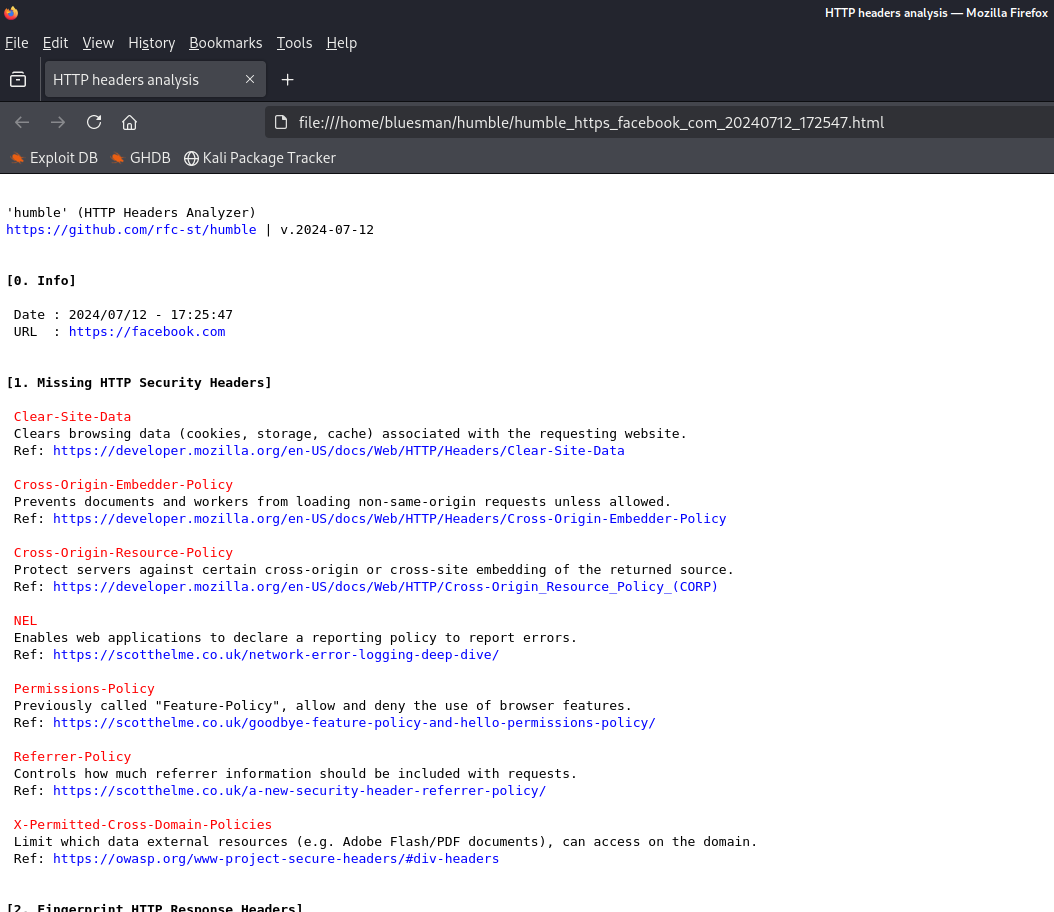
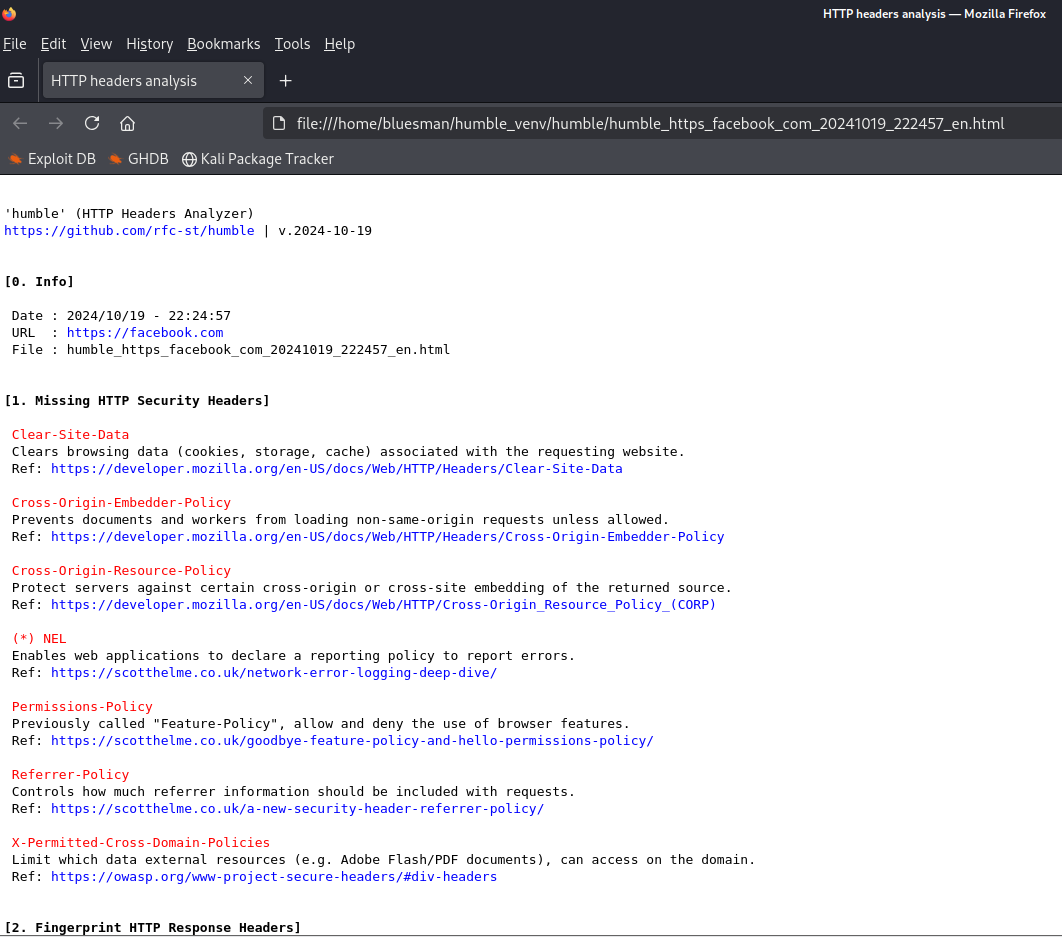
Minor: Optimized the code for exporting to HTML

diff --git a/samples/humble_https_facebook_com_20241019_222457_en.html b/samples/humble_https_facebook_com_20241019_222457_en.html
@@ -1,15 +1,16 @@
 <!DOCTYPE HTML><html lang="en"><head><meta http-equiv="Content-Type" content="text/html; charset=utf-8"><meta name="description" content="HTTP headers analysis of
  https://facebook.com"><meta name="keywords" content="HTTP Headers, Analyzer, Analysis, Cybersecurity, Security-scanner, Security-Tools, Header-Parser
-"><meta name="author" content="https://github.com/rfc-st/humble | v.2024-07-12"><meta name="generator" content="https://github.com/rfc-st/humble | v.2024-07-12"><title>HTTP headers analysis
+"><meta name="author" content="https://github.com/rfc-st/humble | v.2024-10-19"><meta name="generator" content="https://github.com/rfc-st/humble | v.2024-10-19"><title>HTTP headers analysis
 </title><style>pre {overflow-x: auto; white-space: pre-wrap;white-space: -moz-pre-wrap; white-space: -pre-wrap;white-space: -o-pre-wrap; word-wrap: break-word; font-size: 13px;} a {color: blue; text-decoration: none;} .ok {color: green;} .header {color: #660033;} .ko {color: red;}</style></head><body><pre>
 
 'humble' (HTTP Headers Analyzer)
-<a href="https://github.com/rfc-st/humble">https://github.com/rfc-st/humble</a> | v.2024-07-12
+<a href="https://github.com/rfc-st/humble">https://github.com/rfc-st/humble</a> | v.2024-10-19
 
 
 <strong>[0. Info]</strong><br>
- Date : 2024/07/12 - 17:25:47
- URL  : <a href="https://facebook.com">https://facebook.com</a><br>
+ Date : 2024/10/19 - 22:24:57
+ URL  : <a href="https://facebook.com">https://facebook.com</a><br> File : humble_https_facebook_com_20241019_222457_en.html
+
 
 <strong>[1. Missing HTTP Security Headers]</strong><br>
 <span class="ko"> Clear-Site-Data
@@ -21,7 +22,7 @@
 <span class="ko"> Cross-Origin-Resource-Policy
 </span> Protect servers against certain cross-origin or cross-site embedding of the returned source.
  Ref: <a href="https://developer.mozilla.org/en-US/docs/Web/HTTP/Cross-Origin_Resource_Policy_(CORP)">https://developer.mozilla.org/en-US/docs/Web/HTTP/Cross-Origin_Resource_Policy_(CORP)</a><br>
-<span class="ko"> NEL
+<span class="ko"> (*) NEL
 </span> Enables web applications to declare a reporting policy to report errors.
  Ref: <a href="https://scotthelme.co.uk/network-error-logging-deep-dive/">https://scotthelme.co.uk/network-error-logging-deep-dive/</a><br>
 <span class="ko"> Permissions-Policy
@@ -38,30 +39,33 @@
  These headers can leak information about software, versions, hostnames or IP addresses:
 
 <span class="ko"> X-FB-Debug</span> [facebook.com Platform]
[2 lines of base64/hex data omitted]
 
 
 <strong>[3. Deprecated HTTP Response Headers/Protocols and Insecure Values]</strong><br>
  The following headers/protocols are deprecated or their values may be considered unsafe:
 
 <span class="ko"> Content-Security-Policy (Deprecated Directives)
-</span> Avoid using deprecated directives: 'block-all-mixed-content', 'report-uri'
+</span> Avoid using deprecated directives: 'report-uri', 'block-all-mixed-content'
  Ref: <a href="https://developer.mozilla.org/en-US/docs/Web/HTTP/Headers/Content-Security-Policy">https://developer.mozilla.org/en-US/docs/Web/HTTP/Headers/Content-Security-Policy</a><br>
 <span class="ko"> Content-Security-Policy (Insecure Schemes)
 </span> Do not allow insecure, unencrypted schemes: 'http:'
  Ref: <a href="https://www.cloudflare.com/learning/ssl/why-is-http-not-secure/">https://www.cloudflare.com/learning/ssl/why-is-http-not-secure/</a><br> Ref: <a href="https://http.dev/wss">https://http.dev/wss</a><br>
 <span class="ko"> Content-Security-Policy (Too Permissive Sources)
-</span> Limit these permissive origins: 'data:', 'blob:'
+</span> Limit these permissive origins: 'blob:', 'data:'
  Ref: <a href="https://content-security-policy.com/">https://content-security-policy.com/</a><br>
 <span class="ko"> Content-Security-Policy (Unsafe Values)
 </span> 'unsafe-inline' and 'unsafe-eval' negate most of the security benefits provided by this header.
  Ref: <a href="https://csper.io/blog/no-more-unsafe-inline">https://csper.io/blog/no-more-unsafe-inline</a><br> Ref: <a href="https://developer.mozilla.org/en-US/docs/Web/JavaScript/Reference/Global_Objects/eval">https://developer.mozilla.org/en-US/docs/Web/JavaScript/Reference/Global_Objects/eval</a><br>
-<span class="ko"> Origin-Agent-Cluster (No Valid Directives)
+<span class="ko"> (*) Origin-Agent-Cluster (No Valid Directives)
 </span> The only valid value is '?1'.
  Ref: <a href="https://developer.mozilla.org/en-US/docs/Web/HTTP/Headers/Origin-Agent-Cluster">https://developer.mozilla.org/en-US/docs/Web/HTTP/Headers/Origin-Agent-Cluster</a><br>
 <span class="ko"> Pragma (Deprecated Header)
 </span> This header is deprecated.
  Ref: <a href="https://developer.mozilla.org/en-US/docs/Web/HTTP/Headers/Pragma">https://developer.mozilla.org/en-US/docs/Web/HTTP/Headers/Pragma</a><br>
+<span class="ko"> Report-To (Deprecated Header)
+</span> This header is deprecated. Use instead "Reporting-Endpoints".
+ Ref: <a href="https://developer.mozilla.org/en-US/docs/Web/HTTP/Headers/Report-To">https://developer.mozilla.org/en-US/docs/Web/HTTP/Headers/Report-To</a><br>
 <span class="ko"> Strict-Transport-Security (Recommended Values)
 </span> Add 'includeSubDomains' and 'max-age' (with 31536000 -one year- as minimum).
  Ref: <a href="https://developer.mozilla.org/en-US/docs/Web/HTTP/Headers/Strict-Transport-Security">https://developer.mozilla.org/en-US/docs/Web/HTTP/Headers/Strict-Transport-Security</a><br> Ref: <a href="https://https.cio.gov/hsts/">https://https.cio.gov/hsts/</a><br>
@@ -82,17 +86,19 @@
 <span class="ok"> Nothing to report, all seems OK!</span><br>
 
 <strong>[5. Browser Compatibility for Enabled HTTP Security Headers]</strong><br>
-<span class="header"> Cache-Control: </span><a href="https://caniuse.com/?search=Cache-Control">https://caniuse.com/?search=Cache-Control</a><br><span class="header"> Content-Security-Policy: </span><a href="https://caniuse.com/?search=contentsecuritypolicy2">https://caniuse.com/?search=contentsecuritypolicy2</a><br><span class="header"> Content-Type: </span><a href="https://caniuse.com/?search=Content-Type">https://caniuse.com/?search=Content-Type</a><br><span class="header"> Cross-Origin-Opener-Policy: </span><a href="https://caniuse.com/?search=Cross-Origin-Opener-Policy">https://caniuse.com/?search=Cross-Origin-Opener-Policy</a><br><span class="header"> Origin-Agent-Cluster: </span><a href="https://caniuse.com/?search=Origin-Agent-Cluster">https://caniuse.com/?search=Origin-Agent-Cluster</a><br><span class="header"> Strict-Transport-Security: </span><a href="https://caniuse.com/?search=Strict-Transport-Security">https://caniuse.com/?search=Strict-Transport-Security</a><br><span class="header"> Vary: </span><a href="https://caniuse.com/?search=Vary">https://caniuse.com/?search=Vary</a><br><span class="header"> X-Content-Type-Options: </span><a href="https://caniuse.com/?search=X-Content-Type-Options">https://caniuse.com/?search=X-Content-Type-Options</a><br><span class="header"> X-Frame-Options: </span><a href="https://caniuse.com/?search=X-Frame-Options">https://caniuse.com/?search=X-Frame-Options</a><br><span class="header"> X-XSS-Protection: </span><a href="https://caniuse.com/?search=X-XSS-Protection">https://caniuse.com/?search=X-XSS-Protection</a><br>
+<span class="header"> Cache-Control: </span><a href="https://caniuse.com/?search=Cache-Control">https://caniuse.com/?search=Cache-Control</a><br><span class="header"> Content-Security-Policy: </span><a href="https://caniuse.com/?search=contentsecuritypolicy2">https://caniuse.com/?search=contentsecuritypolicy2</a><br><span class="header"> Content-Type: </span><a href="https://caniuse.com/?search=Content-Type">https://caniuse.com/?search=Content-Type</a><br><span class="header"> Cross-Origin-Opener-Policy: </span><a href="https://caniuse.com/?search=Cross-Origin-Opener-Policy">https://caniuse.com/?search=Cross-Origin-Opener-Policy</a><br><span class="header"> Origin-Agent-Cluster: </span><a href="https://caniuse.com/?search=Origin-Agent-Cluster">https://caniuse.com/?search=Origin-Agent-Cluster</a><br><span class="header"> Reporting-Endpoints: </span><a href="https://caniuse.com/?search=Reporting-Endpoints">https://caniuse.com/?search=Reporting-Endpoints</a><br><span class="header"> Strict-Transport-Security: </span><a href="https://caniuse.com/?search=Strict-Transport-Security">https://caniuse.com/?search=Strict-Transport-Security</a><br><span class="header"> Vary: </span><a href="https://caniuse.com/?search=Vary">https://caniuse.com/?search=Vary</a><br><span class="header"> X-Content-Type-Options: </span><a href="https://caniuse.com/?search=X-Content-Type-Options">https://caniuse.com/?search=X-Content-Type-Options</a><br><span class="header"> X-Frame-Options: </span><a href="https://caniuse.com/?search=X-Frame-Options">https://caniuse.com/?search=X-Frame-Options</a><br><span class="header"> X-XSS-Protection: </span><a href="https://caniuse.com/?search=X-XSS-Protection">https://caniuse.com/?search=X-XSS-Protection</a><br>
 
-.:
+<strong>[6. Analysis Results]</strong><br>
+ Done in 0.6 seconds! (changes with respect to the last analysis in parentheses)
 
-Analysis done in 0.54 seconds! (changes with respect to the last analysis in parentheses)
+ Missing headers:              7 (First Analysis)
+ Fingerprint headers:          1 (First Analysis)
+ Deprecated/Insecure headers:  11 (First Analysis)
+ Empty headers:                0 (First Analysis)
 
-  Missing headers:              7 (First Analysis)
-  Fingerprint headers:          1 (First Analysis)
-  Deprecated/Insecure headers:  10 (First Analysis)
-  Empty headers:                0 (First Analysis)
+ Findings to review:           19 (First Analysis)
 
-  Findings to review:           18 (First Analysis)
+ Analysis Grade:               D (Review 'Deprecated/Insecure headers')
 
+ '(*)' meaning:                Experimental HTTP response header
 </pre></body></html>

diff --git a/humble.py b/humble.py
@@ -122,7 +122,7 @@ tps://github.com/rfc-st/humble')
 URL_STRING = ('rfc-st', ' URL  : ', 'caniuse')
 
 current_time = datetime.now().strftime("%Y/%m/%d - %H:%M:%S")
-local_version = datetime.strptime('2024-10-18', '%Y-%m-%d').date()
+local_version = datetime.strptime('2024-10-19', '%Y-%m-%d').date()
 
 
 class SSLContextAdapter(requests.adapters.HTTPAdapter):
@@ -853,10 +853,10 @@ def check_frame_options(args, headers_l, l_miss, m_cnt, skip_missing):
         skip_missing.add('x-frame-options')
     xfo_missing = 'x-frame-options' not in skip_missing
     xfo_not_set = 'x-frame-options' not in headers_l
-    fra_missing = 'frame-ancestors' not in headers_l.get(
+    csp_missing = 'frame-ancestors' not in headers_l.get(
         'content-security-policy', '')
     all_missing = all(header.lower() not in headers_l for header in l_miss)
-    if xfo_missing and ((xfo_not_set and fra_missing) or all_missing):
+    if xfo_missing and ((xfo_not_set and csp_missing) or all_missing):
         print_header('X-Frame-Options')
         if not args.brief:
             print_detail('[mxfo]', 2)
@@ -1188,6 +1188,44 @@ def format_html_caniuse(ln, sub_d):
 
 def format_html_bold(ln):
     html_final.write(f'<strong>{ln}</strong><br>')
+
+
+def format_html_headers(i, ln, sub_d):
+    if (str(f"{i}: ") in ln and 'Date:   ' not in ln):
+        ln = ln.replace(ln[: ln.index(":")],
+                        ((sub_d['span_h'] + ln[: ln.index(":")]) +
+                         sub_d['span_f']),)
+    return ln
+
+
+def format_html_lfngfinal(args, i, ln, sub_d):
+    if (ln and i in ln and not args.brief):
+        try:
+            idx = ln.index(' [')
+        except ValueError:
+            return
+        if 'class="ko"' not in ln:
+            ln = f"{sub_d['span_ko']}{ln[:idx]}{sub_d['span_f']}{ln[idx:]}"
+    return ln
+
+
+def format_html_lfinalcase(args, i, ln, sub_d):
+    if (args.brief and i in ln.casefold() and ':' not in ln.casefold() and
+       'class="ko"' not in ln):
+        ln = f"{sub_d['span_ko']}{ln}{sub_d['span_f']}"
+    return ln
+
+
+def format_html_lfinal(i, ln, sub_d):
+    if (ln and ((i in ln) and ('"' not in ln) or ('HTTP (' in ln))):
+        ln = ln.replace(ln, sub_d['span_ko'] + ln + sub_d['span_f'])
+    return ln
+
+
+def format_html_empty(i, ln, ln_stripped, sub_d):
+    if (i in ln_stripped and '[' not in ln_stripped):
+        ln = f"{sub_d['span_ko']}{ln}{sub_d['span_f']}"
+    return ln
 
 
 def print_http_exception(exception_id, exception_v):
@@ -2284,30 +2322,17 @@ elif args.output == 'html':
                 format_html_caniuse(ln_stripped, sub_d)
             else:
                 for i in headers:
-                    if (str(i + ": ") in ln) and ('Date:   ' not in ln):
-                        ln = ln.replace(ln[0: ln.index(":")], sub_d['span_h'] +
-                                        ln[0: ln.index(":")] + sub_d['span_f'])
+                    ln = format_html_headers(i, ln, sub_d)
                 for i in l_fng_final:
-                    if i in ln and not args.brief:
-                        try:
-                            idx = ln.index(' [')
-                        except ValueError:
-                            continue
-                        if 'class="ko"' not in ln:
-                            ln = f"{sub_d['span_ko']}{ln[:idx]}\
-{sub_d['span_f']}{ln[idx:]}"
+                    ln = format_html_lfngfinal(args, i, ln, sub_d)
                 for i in l_fng_final_case:
-                    if args.brief and i in ln.casefold() and ':' not in \
-                     ln.casefold() and 'class="ko"' not in ln:
-                        ln = f"{sub_d['span_ko']}{ln}{sub_d['span_f']}"
+                    ln = format_html_lfinalcase(args, i, ln, sub_d)
                 for i in l_final:
-                    if (i in ln) and ('"' not in ln) or ('HTTP (' in ln):
-                        ln = ln.replace(ln, sub_d['span_ko'] +
-                                        ln + sub_d['span_f'])
+                    ln = format_html_lfinal(i, ln, sub_d)
                 for i in l_empty:
-                    if i in ln_stripped and '[' not in ln_stripped:
-                        ln = f"{sub_d['span_ko']}{ln}{sub_d['span_f']}"
-                html_final.write(ln)
+                    ln = format_html_empty(i, ln, ln_stripped, sub_d)
+                if ln:
+                    html_final.write(ln)
         html_final.write('</pre></body></html>')
 
     print_export_path(final_filename, reliable)

diff --git a/README.md b/README.md
@@ -6,7 +6,7 @@
 <a target="_blank" href="https://www.python.org/downloads/" title="Minimum Python version required to run this tool"><img src="https://img.shields.io/badge/Python-%3E%3D3.8-blue?labelColor=343b41"></a>
 <a target="_blank" href="LICENSE" title="License of this tool"><img src="https://img.shields.io/badge/License-MIT-blue.svg?labelColor=343b41"></a>
 <a target="_blank" href="https://github.com/rfc-st/humble/releases" title="Latest release of this tool"><img src="https://img.shields.io/github/v/release/rfc-st/humble?display_name=release&label=Latest%20Release&labelColor=343b41"></a>
-<a target="_blank" href="https://github.com/rfc-st/humble/commits/master" title="Latest commit of this tool"><img src="https://img.shields.io/badge/Latest_Commit-2024--10--18-blue.svg?labelColor=343b41"></a>
+<a target="_blank" href="https://github.com/rfc-st/humble/commits/master" title="Latest commit of this tool"><img src="https://img.shields.io/badge/Latest_Commit-2024--10--19-blue.svg?labelColor=343b41"></a>
 <a target="_blank" href="https://github.com/rfc-st/humble/actions?query=workflow%3ACodeQL" title="Results of the last analysis of this tool with CodeQL"><img src="https://github.com/rfc-st/humble/workflows/CodeQL/badge.svg"></a>
 <a target="_blank" href="https://pkg.kali.org/pkg/humble" title="Official tool in Kali Linux"><img src="https://img.shields.io/badge/Kali%20Linux-Tool-blue?labelColor=343b41"></a>
 <br />
@@ -125,7 +125,7 @@ Options used: -f -g -p -U -s --hints
 <img src="https://github.com/rfc-st/humble/blob/master/screenshots/humble_pdf_s.PNG" alt="(Windows) - Detailed analysis saved as PDF" width=70% height=70%>
 </p>
 <br />
-.: (Linux) - Detailed analysis saved as HTML. <a href="https://htmlpreview.github.io/?https://github.com/rfc-st/humble/blob/master/samples/humble_https_facebook_com_20240712_172547.html">Example.</a><br />
+.: (Linux) - Detailed analysis saved as HTML. <a href="https://htmlpreview.github.io/?https://github.com/rfc-st/humble/blob/master/samples/humble_https_facebook_com_20241019_222457_en.html">Example.</a><br />
 <p></p>
 <p align="center">
 <img src="https://github.com/rfc-st/humble/blob/master/screenshots/humble_html_s.PNG" alt="(Linux) - Detailed analysis saved as HTML" width=70% height=70%>
